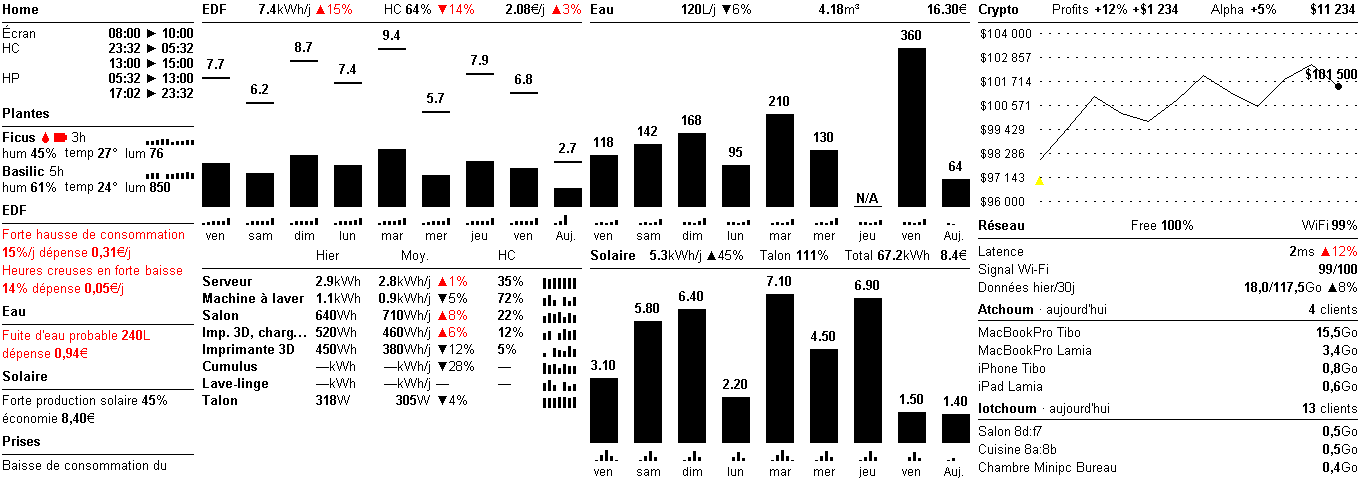
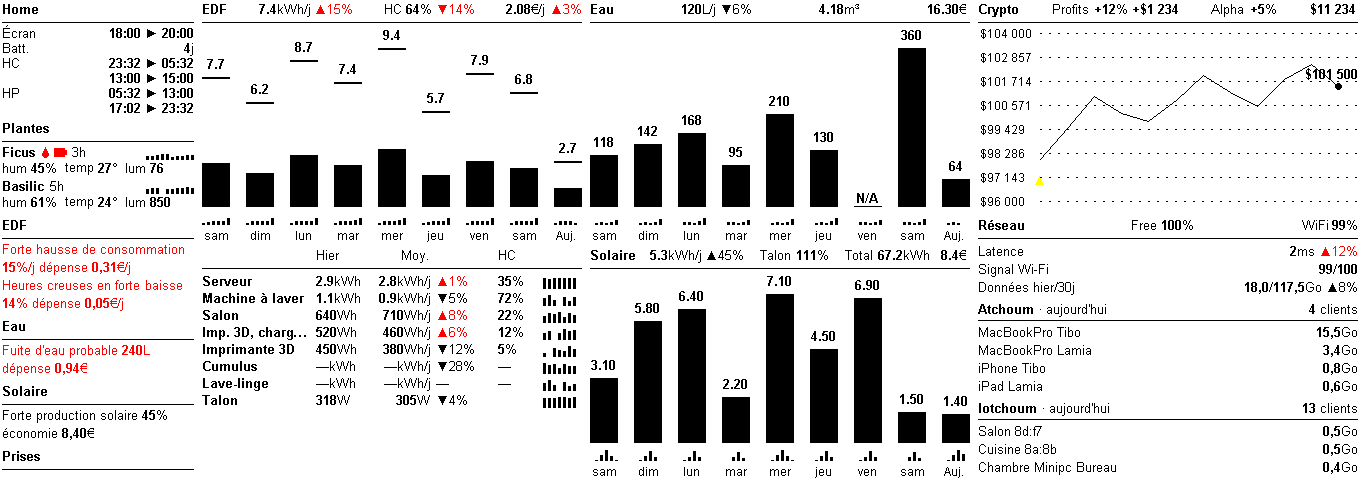
docs: battery autonomy tracking (BATTERY_MONITOR), preview with Batt. line
CHANGELOG, README (feature row + optional env block + /display note),
.env.example and the CasaOS compose gain BATTERY_MONITOR (default true).
gen_preview injects a demo battery line so preview.png shows the Home
"Batt." row.

diff --git a/server/scripts/gen_preview.py b/server/scripts/gen_preview.py
@@ -73,6 +73,13 @@ data["home"].setdefault("tariff", [
     {"period": "", "start_text": "17:02", "end_text": "23:32"},
 ])
 
+# No device telemetry in the dev DB; inject a representative battery line so the
+# Home panel shows the "Batt." autonomy row (days since the last charge).
+data["home"].setdefault("battery", {
+    "since_value": "4", "since_unit": "j", "since_text": "4j 6h",
+    "avg_text": "4j 16h", "record_text": "5j 10h", "cycles": 3,
+})
+
 # The dev DB may hold no Linky history (build_core always emits the 9 calendar
 # days, data or not); inject a representative EDF stacked HC/HP week whenever
 # no complete day carries data so the preview shows a full consumption chart.

diff --git a/README.md b/README.md
@@ -22,6 +22,7 @@ E-paper screen for the home. It reads your smart-home data and renders: electric
 | **Plants** | One card per soil sensor: moisture, temperature, light, the time since its last reading, a 10-day trend on moisture data, and a water-drop icon when moisture drops below your threshold. |
 | **Crypto** | A trading-bot stats banner (return %, profit, portfolio) with a price-grid snapshot. |
 | **Network** | UniFi internet & Wi-Fi quality, latency, data usage and top clients. |
+| **Device battery** | Days since the ESP32 was last charged, in the `Home` panel, with average/record autonomy on `/status` — inferred from the device's boot telemetry, no extra sensor. |
 | **Alerts**  | Notes flagging a smart alerts, a probable leak, or a disconnect, each with its €/day impact. |
 
 ## Hardware
@@ -147,6 +148,16 @@ UNIFI_SSID_MAIN=your_main_wifi_ssid
 ```
 </details>
 
+<details>
+<summary><b>ESP32 battery autonomy</b></summary>
+
+The `Home` panel shows how long the device has run since its last charge (`Batt. 4j`), with average and record autonomy on `/status`. No extra sensor: the firmware reports its boot count and reset reason on each `/display` pull, and the server bounds each charge cycle on power-on events (power restored after a recharge or a flat battery). On by default; set `BATTERY_MONITOR=false` to disable. The autonomy is most meaningful over a full discharge cycle (charge → flat → recharge); a top-up while the device is still running leaves no power-on signal. Reflash the firmware to start sending the telemetry.
+
+```env
+BATTERY_MONITOR=true                   # set false to disable the Home battery line
+```
+</details>
+
 ### 3. Run the server
 
 **Docker Compose:**
@@ -239,7 +250,7 @@ flowchart TD
 
 | Method | Path | Description |
 |--------|------|-------------|
-| `GET` | `/display` | EPD binary buffer (163,200 bytes), rendered fresh, for the ESP32 |
+| `GET` | `/display` | EPD binary buffer (163,200 bytes), rendered fresh, for the ESP32 (also records the device's battery telemetry from its query params) |
 | `GET` | `/` | Auto-refreshing HTML preview in a browser |
 | `GET` | `/preview.png` | The dashboard rendered as a PNG |
 | `GET` | `/status` | Server status as JSON (last render, day count, per-domain config) |

diff --git a/CHANGELOG.md b/CHANGELOG.md
@@ -1,5 +1,9 @@
 # Changelog
 
+## 2026-06-14
+
+- **`Home`: ESP32 battery autonomy — days since the last charge**: the dashboard now tracks how long the device runs on a charge, with no extra sensor. The firmware reports its boot count and reset reason as query params on the `/display` pull; the server logs each pull into battery cycles (a run on one charge, bounded by power-on events — power restored after a recharge or a flat battery) and shows a `Batt.` line in the `Home` panel (`4j` = days since the last charge). Average and record autonomy, plus the last telemetry, are exposed on `/status`. A new optional variable **`BATTERY_MONITOR`** (default `true`; set `false` to disable) gates it. Caveat: the autonomy is most meaningful over a full discharge cycle (charge → flat → recharge); a proactive top-up while the device is still alive leaves no power-on signal. Data and render goldens re-baselined. **Reflash the firmware** to start sending the telemetry (backward compatible: an un-flashed firmware sends nothing and the tracking simply stays empty).
+
 ## 2026-06-13
 
 - **`Plantes`: cards show how long since the last reading, with a longer moisture trend**: each card's title line now carries a compact "time ago" label (`3h`, `12min`, `2j`) glued to the right of the plant's name, so you can tell at a glance how fresh the reading is (these sensors report only 1-2 times a day). It is computed from the last stored reading's timestamp, so it survives a restart. The moisture sparkline also grew from 7 to 10 days. Render and data goldens re-baselined, preview regenerated; no new environment variable.
